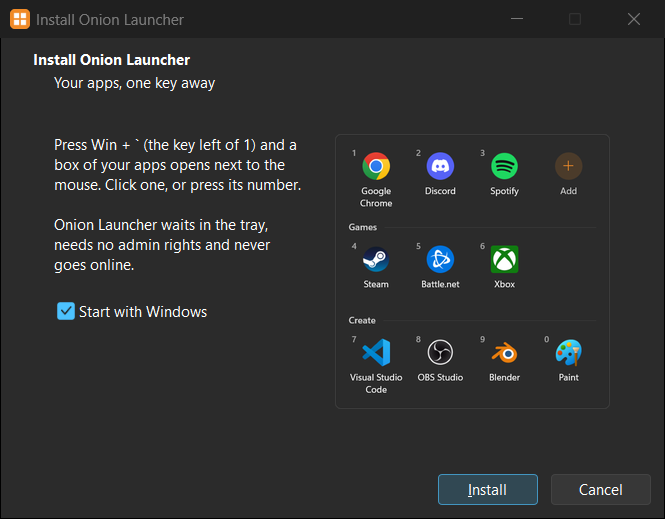
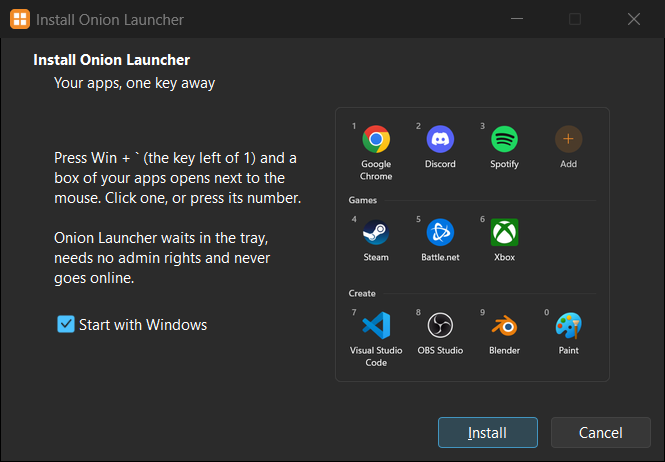
Version 0.2.6: a compact installer
The pages now start right under the heading and the window is shortened to
fit the picture, so there's no empty band above the buttons. On the last
page, Inno's FinishedLabel reported a box much taller than its text, which
pushed "Open Onion Launcher now" far down. It's hidden, and a label of our
own with the same words measures true, so the text and checkbox sit
together, centred against the picture.

diff --git a/CHANGELOG.md b/CHANGELOG.md
@@ -1,5 +1,11 @@
 # Changelog
 
+## 0.2.6 (2026-11-11)
+
+- A more compact installer: the window fits its content, with the page right under the
+  heading and no empty band above the buttons. On the last page, "Open Onion Launcher
+  now" sits straight under the text.
+
 ## 0.2.5 (2026-11-11)
 
 - Rows of tiles are only as tall as their names: a row where every name fits on one line
